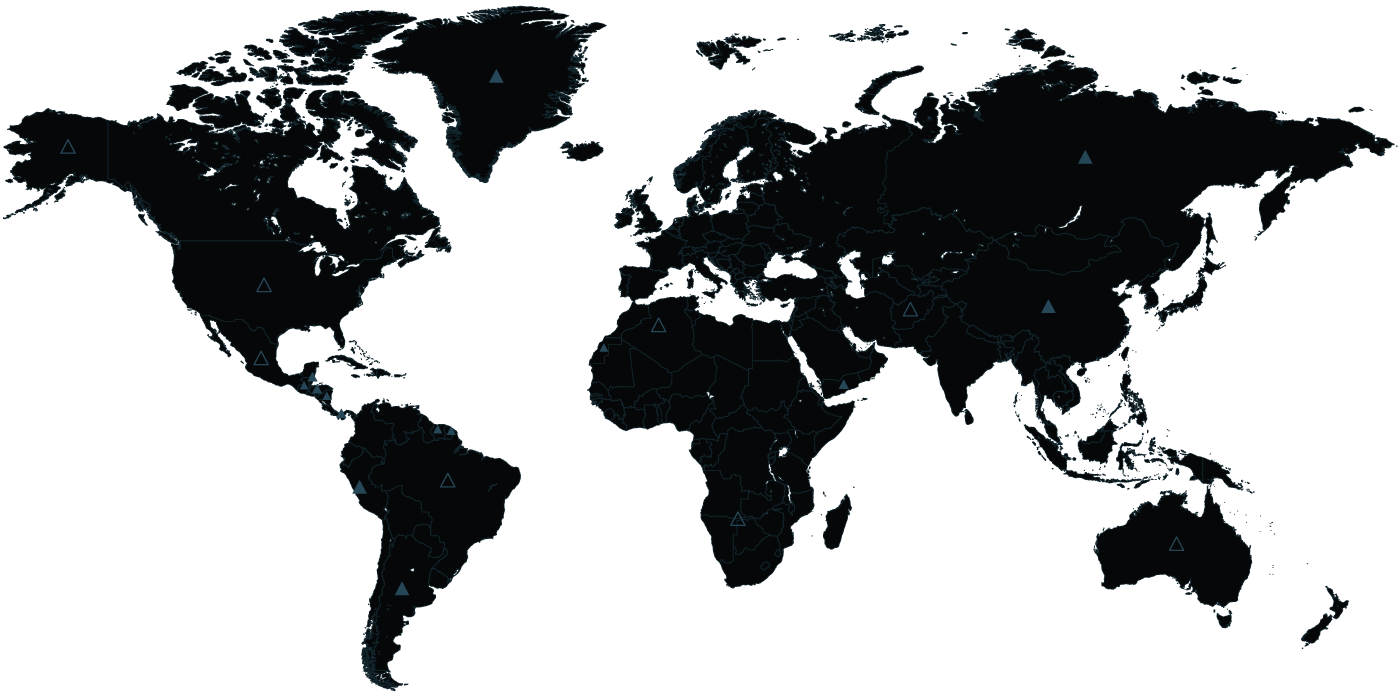
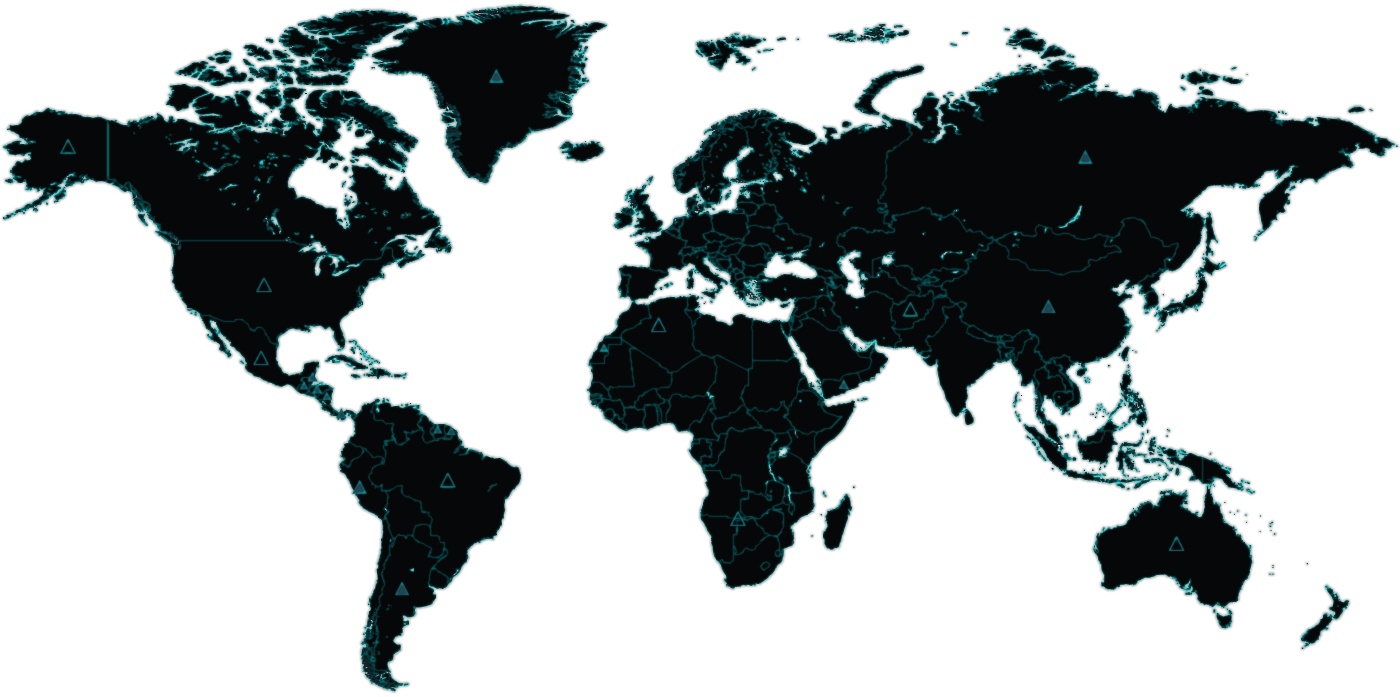
Making the map more visible

diff --git a/web/index.html b/web/index.html
@@ -53,7 +53,7 @@
         border-radius: 6px;
         overflow: hidden;
         margin-bottom: 1rem;
-        background: #0a161a;
+        background: #13242b;
         box-shadow:
           inset 0 0 16px rgba(33, 180, 186, 0.35),
           0 0 20px rgba(33, 180, 186, 0.35);
